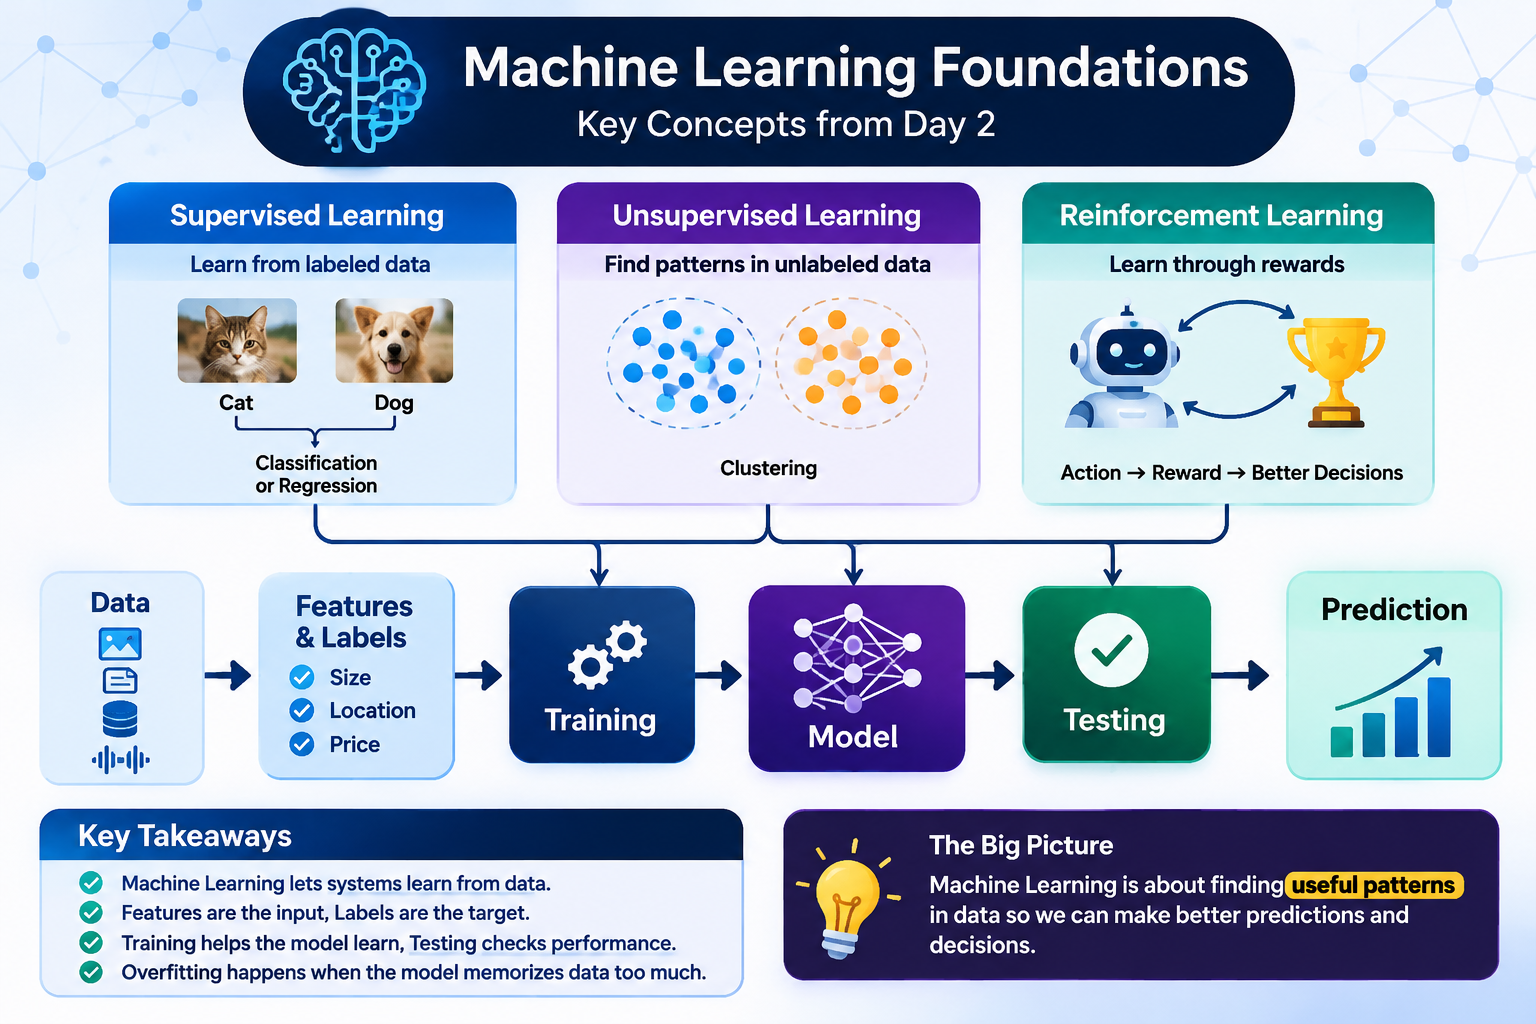
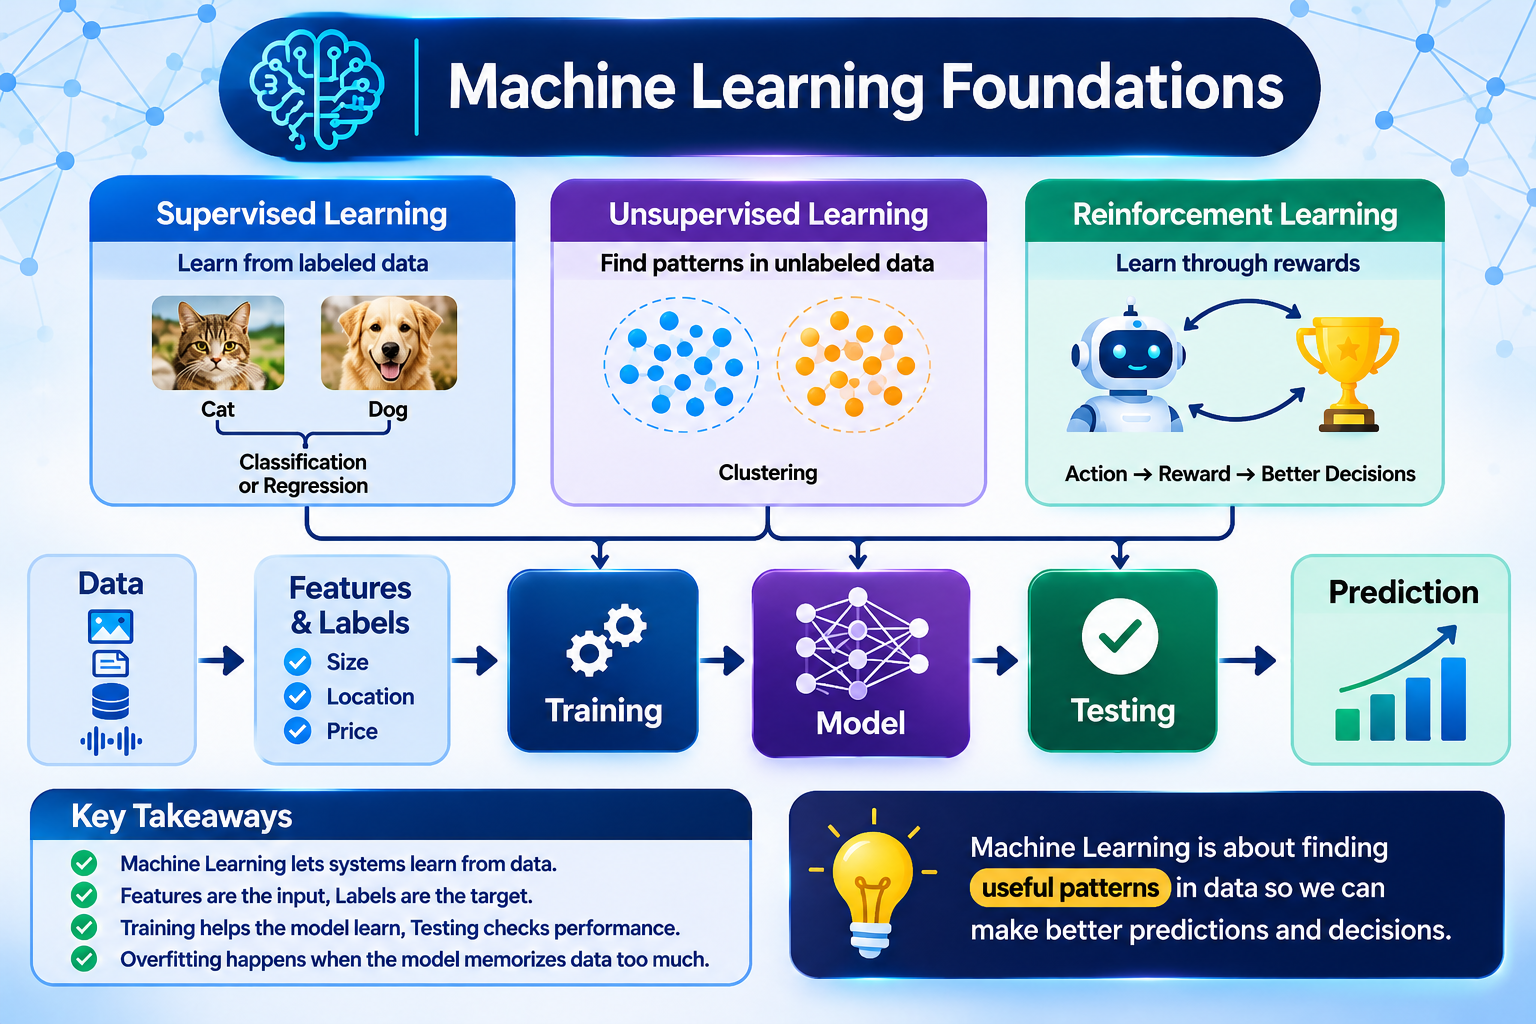
update machine learning foundations

diff --git a/02-machine-learning-foundations/README.md b/02-machine-learning-foundations/README.md
@@ -1,4 +1,4 @@
-# Machine Learning Foundations — Day 2
+# Machine Learning Foundations 
 
 ## Overview
 ![Machine Learning Foundations](machine-learning-foundations.png)
